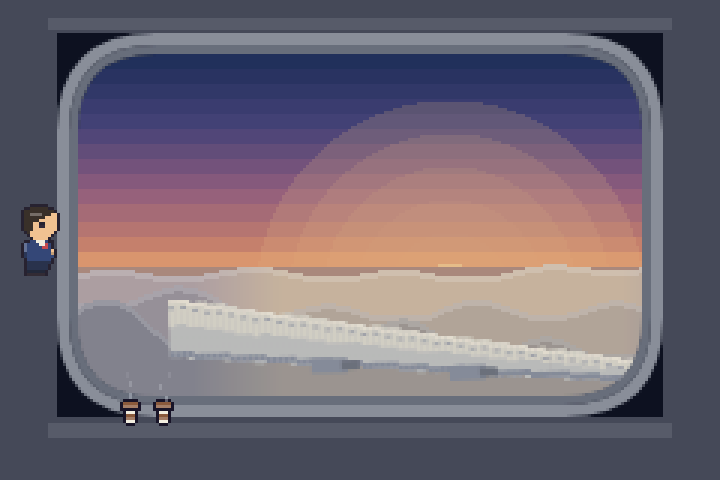
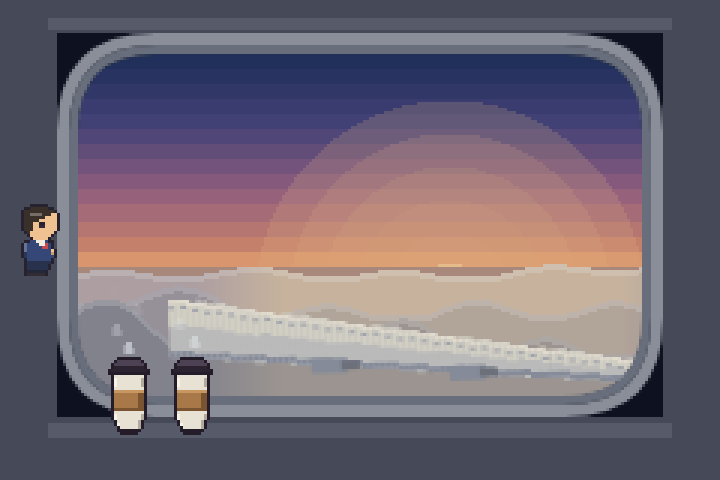
Draw the window cup at the window's scale; ask about cream and sugar
- The cup on the sill was the 7px world prop, which made no sense in a scene
  where the pane fills most of the screen. There is now a separate 14x26 cup
  drawn to the window's own scale, with a lid, a card sleeve and three-tone
  shading, standing on the ledge and partly occluding the glass the way a cup
  on a real sill does. Steam is scaled to match and reads against a lit sky.
- RB.sillCup now takes the position the cup stands at rather than a top-left
  corner, so callers place it on the ledge instead of guessing.
- The attendant takes the whole order: accept the coffee and she asks about
  cream and sugar, then repeats it back when she brings it.
- Dropped a screenshot-harness flag that tried to answer only the first of two
  consecutive questions and never worked reliably.

Changed region(s): [[0.1528, 0.6562, 0.3056, 0.9062]]

diff --git a/dist/rhubarb.html b/dist/rhubarb.html
@@ -854,6 +854,40 @@
     '..ttt..'
   ];
 
+  // -------------------------------------------------------------- big cup
+  // The window scenes are a close-up: the pane fills most of the screen, so a
+  // cup on that ledge is a foreground object, not a 7px world prop. This one
+  // is drawn to the window's scale and partly occludes it, the way a cup on a
+  // real sill does.
+  var BIGCUP = [
+    '...tttttttt...',
+    '..tLLLLLLLLt..',
+    '.tLLLLLLLLLLt.',
+    '.tllllllllllt.',
+    'tllllllllllllt',
+    'tttttttttttttt',
+    '.tcccccccccct.',
+    '.tHccccccccCt.',
+    '.tHccccccccCt.',
+    '.tHccccccccCt.',
+    '.tcccccccccct.',
+    '.tBBBBBBBBBBt.',
+    '.tssssssssSSt.',
+    '.tssssssssSSt.',
+    '.tssssssssSSt.',
+    '.tssssssssSSt.',
+    '.tssssssssSSt.',
+    '.tSSSSSSSSSSt.',
+    '.tcccccccccct.',
+    '.tHccccccccCt.',
+    '.tHccccccccCt.',
+    '..tcccccccCt..',
+    '..tHccccccCt..',
+    '...tccccccCt..',
+    '...tttttttt...',
+    '....tttttt....'
+  ];
+
   // Validate rather than silently pad: a sheared sprite is very hard to spot
   // by eye and very easy to introduce by miscounting one row.
   var errors = [];
@@ -876,6 +910,7 @@
   var SIDE = { 0: check('side0', S0, W, H), 1: check('side1', S1, W, H), 2: check('side2', S2, W, H) };
   var BAG_F = check('bag', BAG, 10, 14);
   var CUP_F = check('cup', CUP, 7, 9);
+  var BIGCUP_F = check('bigcup', BIGCUP, 14, 26);
 
   // Seated poses are derived from the standing idle so they can never drift
   // out of sync with it: drop two rows in, fold the legs at the bottom.
@@ -892,7 +927,7 @@
 
   RB.sprites = {
     down: DOWN, up: UP, side: SIDE,
-    sitDown: SIT_D, sitSide: SIT_S, bag: BAG_F, cup: CUP_F,
+    sitDown: SIT_D, sitSide: SIT_S, bag: BAG_F, cup: CUP_F, bigcup: BIGCUP_F,
     W: W, H: H
   };
 
@@ -1902,16 +1937,31 @@
     RB.ctx.globalAlpha = 1;
   };
 
+  RB.cupPal = {
+    t: '#241c28',
+    l: '#2b2430', L: '#4c4254',
+    c: '#e8e2d4', C: '#b2aa9c', H: '#f8f4ea',
+    s: '#a87848', S: '#7a5430', B: '#c89660'
+  };
+
   // A cup at rest with steam curling off it. Three wisps on different
   // phases, drifting up and sideways and fading as they rise.
+  // x,y is where the cup STANDS — its base — so callers position it on the
+  // ledge rather than guessing at a top-left corner.
   RB.sillCup = function (x, y, t) {
-    RB.drawSprite(RB.sprites.cup, x, y, RB.cast.you);
-    for (var i = 0; i < 3; i++) {
-      var k = ((t * 0.55 + i * 0.34) % 1);
-      var sy = y - 1 - k * 11;
-      var sx = x + 3 + Math.sin(t * 1.7 + i * 2.2 + k * 3) * 2.2;
-      RB.ctx.globalAlpha = (1 - k) * 0.34;
-      RB.rect(sx, sy, 1, 2, P.white);
+    var h = RB.sprites.bigcup.length;
+    RB.drawSprite(RB.sprites.bigcup, x, y - h, RB.cupPal);
+    // Steam scaled to match: taller, wider, slower.
+    for (var i = 0; i < 4; i++) {
+      var k = ((t * 0.34 + i * 0.25) % 1);
+      var sy = y - h - 2 - k * 26;
+      var sx = x + 5 + Math.sin(t * 1.2 + i * 1.9 + k * 3.4) * 4.5;
+      var fade = (1 - k) * (1 - k);
+      RB.ctx.globalAlpha = fade * 0.70;
+      RB.rect(sx, sy, 2, 4, P.white);
+      RB.ctx.globalAlpha = fade * 0.40;
+      RB.rect(sx - 1, sy + 1, 1, 3, P.white);
+      RB.rect(sx + 2, sy + 2, 1, 2, P.white);
       RB.ctx.globalAlpha = 1;
     }
   };
@@ -3412,7 +3462,7 @@
       // Anything you carried aboard sits on the ledge, steaming.
       var cups = RB.state.cupsHeld || 0;
       for (var c = 0; c < cups; c++) {
-        RB.sillCup(wx + 14 + c * 11, wy + wh + 1, s.t + c * 1.7);
+        RB.sillCup(wx + 10 + c * 21, wy + wh + 13, s.t + c * 1.7);
       }
     };
 
@@ -3681,21 +3731,28 @@
 
       // Quarter of the way in, halfway, three-quarters.
       service = new RB.Script(function* () {
-        var accepted = false;
+        var accepted = false, take = 0;
+        var TAKES = ['Cream and sugar.', 'Cream, no sugar.', 'Black.'];
 
         yield RB.waitFor(function () { return s.t > 30; });
         yield RB.call(function () { RB.audio.sfx.tick(); });
         yield arrive();
         var pick = yield RB.choose('Coffee, sir?', 'Attendant', ['Yes, please.', 'No, thank you.']);
         accepted = pick === 0;
-        yield RB.say(accepted ? ['Of course.'] : ['Certainly, sir.'], 'Attendant');
+        if (accepted) {
+          take = yield RB.choose('Cream or sugar?', 'Attendant',
+                                 ['Both, please.', 'Just cream.', 'Black is fine.']);
+          yield RB.say(['Of course.'], 'Attendant');
+        } else {
+          yield RB.say(['Certainly, sir.'], 'Attendant');
+        }
         yield leave();
 
         if (accepted) {
           yield RB.waitFor(function () { return s.t > 62; });
           yield RB.call(function () { att.tray = true; });
           yield arrive();
-          yield RB.say(['Your coffee, sir.'], 'Attendant');
+          yield RB.say(['Your coffee, sir. ' + TAKES[take]], 'Attendant');
           yield RB.call(function () {
             RB.state.cupsHeld = (RB.state.cupsHeld || 0) + 1;
             att.tray = false;
@@ -3817,7 +3874,7 @@
       // when she collects it.
       var cups = RB.state.cupsHeld || 0;
       for (var c = 0; c < cups; c++) {
-        RB.sillCup(wx + 14 + c * 11, wy + wh + 1, s.t + c * 1.7);
+        RB.sillCup(wx + 10 + c * 21, wy + wh + 13, s.t + c * 1.7);
       }
 
       // The attendant, leaning into your view from the aisle. Drawn after the

diff --git a/src/scenes_flight.js b/src/scenes_flight.js
@@ -338,7 +338,7 @@
       // Anything you carried aboard sits on the ledge, steaming.
       var cups = RB.state.cupsHeld || 0;
       for (var c = 0; c < cups; c++) {
-        RB.sillCup(wx + 14 + c * 11, wy + wh + 1, s.t + c * 1.7);
+        RB.sillCup(wx + 10 + c * 21, wy + wh + 13, s.t + c * 1.7);
       }
     };
 
@@ -607,21 +607,28 @@
 
       // Quarter of the way in, halfway, three-quarters.
       service = new RB.Script(function* () {
-        var accepted = false;
+        var accepted = false, take = 0;
+        var TAKES = ['Cream and sugar.', 'Cream, no sugar.', 'Black.'];
 
         yield RB.waitFor(function () { return s.t > 30; });
         yield RB.call(function () { RB.audio.sfx.tick(); });
         yield arrive();
         var pick = yield RB.choose('Coffee, sir?', 'Attendant', ['Yes, please.', 'No, thank you.']);
         accepted = pick === 0;
-        yield RB.say(accepted ? ['Of course.'] : ['Certainly, sir.'], 'Attendant');
+        if (accepted) {
+          take = yield RB.choose('Cream or sugar?', 'Attendant',
+                                 ['Both, please.', 'Just cream.', 'Black is fine.']);
+          yield RB.say(['Of course.'], 'Attendant');
+        } else {
+          yield RB.say(['Certainly, sir.'], 'Attendant');
+        }
         yield leave();
 
         if (accepted) {
           yield RB.waitFor(function () { return s.t > 62; });
           yield RB.call(function () { att.tray = true; });
           yield arrive();
-          yield RB.say(['Your coffee, sir.'], 'Attendant');
+          yield RB.say(['Your coffee, sir. ' + TAKES[take]], 'Attendant');
           yield RB.call(function () {
             RB.state.cupsHeld = (RB.state.cupsHeld || 0) + 1;
             att.tray = false;
@@ -743,7 +750,7 @@
       // when she collects it.
       var cups = RB.state.cupsHeld || 0;
       for (var c = 0; c < cups; c++) {
-        RB.sillCup(wx + 14 + c * 11, wy + wh + 1, s.t + c * 1.7);
+        RB.sillCup(wx + 10 + c * 21, wy + wh + 13, s.t + c * 1.7);
       }
 
       // The attendant, leaning into your view from the aisle. Drawn after the

diff --git a/src/sprites.js b/src/sprites.js
@@ -169,6 +169,40 @@
     '..ttt..'
   ];
 
+  // -------------------------------------------------------------- big cup
+  // The window scenes are a close-up: the pane fills most of the screen, so a
+  // cup on that ledge is a foreground object, not a 7px world prop. This one
+  // is drawn to the window's scale and partly occludes it, the way a cup on a
+  // real sill does.
+  var BIGCUP = [
+    '...tttttttt...',
+    '..tLLLLLLLLt..',
+    '.tLLLLLLLLLLt.',
+    '.tllllllllllt.',
+    'tllllllllllllt',
+    'tttttttttttttt',
+    '.tcccccccccct.',
+    '.tHccccccccCt.',
+    '.tHccccccccCt.',
+    '.tHccccccccCt.',
+    '.tcccccccccct.',
+    '.tBBBBBBBBBBt.',
+    '.tssssssssSSt.',
+    '.tssssssssSSt.',
+    '.tssssssssSSt.',
+    '.tssssssssSSt.',
+    '.tssssssssSSt.',
+    '.tSSSSSSSSSSt.',
+    '.tcccccccccct.',
+    '.tHccccccccCt.',
+    '.tHccccccccCt.',
+    '..tcccccccCt..',
+    '..tHccccccCt..',
+    '...tccccccCt..',
+    '...tttttttt...',
+    '....tttttt....'
+  ];
+
   // Validate rather than silently pad: a sheared sprite is very hard to spot
   // by eye and very easy to introduce by miscounting one row.
   var errors = [];
@@ -191,6 +225,7 @@
   var SIDE = { 0: check('side0', S0, W, H), 1: check('side1', S1, W, H), 2: check('side2', S2, W, H) };
   var BAG_F = check('bag', BAG, 10, 14);
   var CUP_F = check('cup', CUP, 7, 9);
+  var BIGCUP_F = check('bigcup', BIGCUP, 14, 26);
 
   // Seated poses are derived from the standing idle so they can never drift
   // out of sync with it: drop two rows in, fold the legs at the bottom.
@@ -207,7 +242,7 @@
 
   RB.sprites = {
     down: DOWN, up: UP, side: SIDE,
-    sitDown: SIT_D, sitSide: SIT_S, bag: BAG_F, cup: CUP_F,
+    sitDown: SIT_D, sitSide: SIT_S, bag: BAG_F, cup: CUP_F, bigcup: BIGCUP_F,
     W: W, H: H
   };
 

diff --git a/src/world.js b/src/world.js
@@ -595,16 +595,31 @@
     RB.ctx.globalAlpha = 1;
   };
 
+  RB.cupPal = {
+    t: '#241c28',
+    l: '#2b2430', L: '#4c4254',
+    c: '#e8e2d4', C: '#b2aa9c', H: '#f8f4ea',
+    s: '#a87848', S: '#7a5430', B: '#c89660'
+  };
+
   // A cup at rest with steam curling off it. Three wisps on different
   // phases, drifting up and sideways and fading as they rise.
+  // x,y is where the cup STANDS — its base — so callers position it on the
+  // ledge rather than guessing at a top-left corner.
   RB.sillCup = function (x, y, t) {
-    RB.drawSprite(RB.sprites.cup, x, y, RB.cast.you);
-    for (var i = 0; i < 3; i++) {
-      var k = ((t * 0.55 + i * 0.34) % 1);
-      var sy = y - 1 - k * 11;
-      var sx = x + 3 + Math.sin(t * 1.7 + i * 2.2 + k * 3) * 2.2;
-      RB.ctx.globalAlpha = (1 - k) * 0.34;
-      RB.rect(sx, sy, 1, 2, P.white);
+    var h = RB.sprites.bigcup.length;
+    RB.drawSprite(RB.sprites.bigcup, x, y - h, RB.cupPal);
+    // Steam scaled to match: taller, wider, slower.
+    for (var i = 0; i < 4; i++) {
+      var k = ((t * 0.34 + i * 0.25) % 1);
+      var sy = y - h - 2 - k * 26;
+      var sx = x + 5 + Math.sin(t * 1.2 + i * 1.9 + k * 3.4) * 4.5;
+      var fade = (1 - k) * (1 - k);
+      RB.ctx.globalAlpha = fade * 0.70;
+      RB.rect(sx, sy, 2, 4, P.white);
+      RB.ctx.globalAlpha = fade * 0.40;
+      RB.rect(sx - 1, sy + 1, 1, 3, P.white);
+      RB.rect(sx + 2, sy + 2, 1, 2, P.white);
       RB.ctx.globalAlpha = 1;
     }
   };

diff --git a/tools/shoot.js b/tools/shoot.js
@@ -23,7 +23,7 @@ const SHOTS = [
   ['12b-away',      'takeoff',  4500, null],
   ['12c-layer',     'takeoff',  5100, null],
   ['13-sunrise-a',  'sunrise',  900,  null],
-  ['13b-offer',     'sunrise',  1950, `RB.state.cupsHeld=1;`],
+  ['13b-offer',     'sunrise',  1950, 'RB.state.cupsHeld=1;window.__noAuto=true;'],
   ['13c-serve',     'sunrise',  3900, `RB.state.cupsHeld=1;`],
   ['13d-collect',   'sunrise',  5850, `RB.state.cupsHeld=2;`],
   ['14-sunrise-b',  'sunrise',  2600, null],
@@ -59,6 +59,7 @@ const SHOTS = [
     const res = await page.evaluate(({ scene, frames, setup }) => {
       const err = [];
       try {
+        window.__noAuto = false;
         RB.now = 0;
         RB.fade.v = 0;
         RB.enterScene(scene);
@@ -68,7 +69,10 @@ const SHOTS = [
         for (let i = 0; i < frames; i++) {
           // Answer the chooser and tap through dialogue, so beats after a
           // question can be captured at all.
-          RB.input.action = (RB.chooser.active() || RB.dialog.active()) ? (press = !press) : false;
+          // Answer questions and tap through dialogue, unless a shot wants to
+          // photograph one of them.
+          RB.input.action = (!window.__noAuto && (RB.chooser.active() || RB.dialog.active()))
+            ? (press = !press) : false;
           RB.now += dt;
           RB.updateTransition(dt);
           RB.dialog.update(dt);
